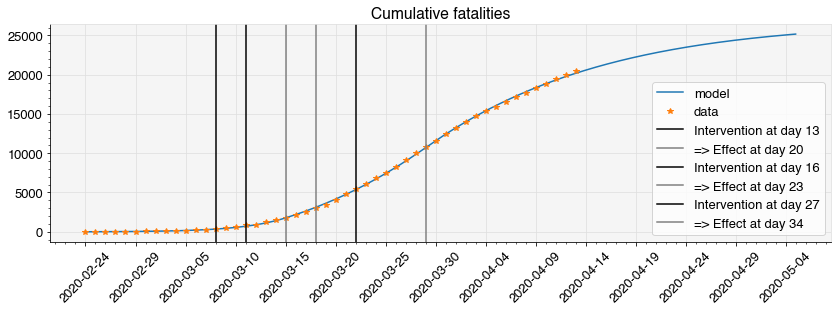
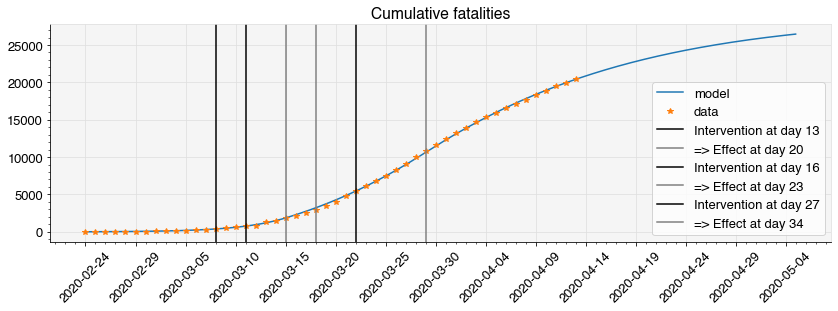
weekly crontab backup

diff --git a/02 - Daily_Report_Italy.md b/02 - Daily_Report_Italy.md
@@ -47,22 +47,22 @@ sir_prediction_from_country('Italy')
     Intervention list:
     day since start simulation: 13  => beta reduction factor: 0.65
     day since start simulation: 16  => beta reduction factor: 0.65
-    day since start simulation: 27  => beta reduction factor: 0.42
+    day since start simulation: 27  => beta reduction factor: 0.46
     
     Fitting parameters N0 and beta
-    Initial loss: 265245
+    Initial loss: 265676
     Optimization terminated successfully.
-             Current function value: 692.117842
-             Iterations: 97
-             Function evaluations: 182
+             Current function value: 717.855098
+             Iterations: 94
+             Function evaluations: 178
     Estimated parameters:
-    N0: 12077
+    N0: 14157
     beta0 (contacts per day): 0.43
-    R0: 2.17
+    R0: 2.13
     
-    Final loss: 692
-    Initial/Final % loss: 0.26
-    Normalized Loss (per million persons, per day) 0.229 
+    Final loss: 717
+    Initial/Final % loss: 0.27
+    Normalized Loss (per million persons, per day) 0.237 
     
     
     _____________________________________________________________________
@@ -72,15 +72,15 @@ sir_prediction_from_country('Italy')
     Model name: optimized 2 pars
     
     Simulated days: 71.0
-    Initially infected/Total population (N0/N): 12077/60480000 (20.0 per 100,000)
+    Initially infected/Total population (N0/N): 14157/60480000 (23.4 per 100,000)
     beta (per day): 0.4 , nu (per day): 0.2
     1/beta (days): 2.3 , 1/nu (days): 5.0
     IFR: 0.0016666666666666668
-    Initial Doubling time: 3.0  days, Initial R0: 2.2
+    Initial Doubling time: 3.1  days, Initial R0: 2.1
     Interventions:
-      1/beta at day 13.0  = 3.5  days, R0 = 1.41
-      1/beta at day 16.0  = 3.5  days, R0 = 1.41
-      1/beta at day 27.0  = 5.5  days, R0 = 0.91
+      1/beta at day 13.0  = 3.6  days, R0 = 1.39
+      1/beta at day 16.0  = 3.6  days, R0 = 1.39
+      1/beta at day 27.0  = 5.1  days, R0 = 0.98
     Latency for intervention effect on fatalities (days): 7
     Infected_to_Detected_ratio: 6
     
@@ -88,17 +88,17 @@ sir_prediction_from_country('Italy')
     _____________________________________________________________________
     
     MODEL'S OUTPUTS FOR TODAY: 2020-04-14
-       Infected: 1158414 (1.9%)
-       Recovered: 12352065 (20.4%)
-       Exposed to date: 13510479 (22.3%)
-       In ICU: 1448
-       Fatalities: 20586
+       Infected: 1316405 (2.2%)
+       Recovered: 12518610 (20.7%)
+       Exposed to date: 13835015 (22.9%)
+       In ICU: 1645
+       Fatalities: 20864
      
     MEDIUM TERM FORECAST (71 days from model start date): 
-       Percent of population exposed at end simulation: 25%
-       Peak ICU admissions:  3360  on day 2020-03-29
+       Percent of population exposed at end simulation: 26%
+       Peak ICU admissions:  3222  on day 2020-03-29
        (note model does not account for long ICU stays)
-       Total fatalities at end of simulation: 25171
+       Total fatalities at end of simulation: 26462
 
 
 
@@ -124,7 +124,7 @@ sir_prediction_from_country('Italy')
           The derivative of the quadratic is used to estimate doubling time and R(t).
     Rt estimated from doubling time using nu= 0.2
     
-    Run finished 2020-04-14 12:42:20.718391
+    Run finished 2020-04-14 12:45:40.938821
 
 
 

diff --git a/01 - Daily_Report_Spain.md b/01 - Daily_Report_Spain.md
@@ -126,5 +126,5 @@ sir_prediction_from_country('Spain')
           The derivative of the quadratic is used to estimate doubling time and R(t).
     Rt estimated from doubling time using nu= 0.2
     
-    Run finished 2020-04-14 12:42:01.087016
+    Run finished 2020-04-14 12:45:22.051957
 

diff --git a/03 - Daily_Report_US.md b/03 - Daily_Report_US.md
@@ -122,5 +122,5 @@ sir_prediction_from_country('US')
           The derivative of the quadratic is used to estimate doubling time and R(t).
     Rt estimated from doubling time using nu= 0.2
     
-    Run finished 2020-04-14 12:42:43.598220
+    Run finished 2020-04-14 12:46:06.089867
 
